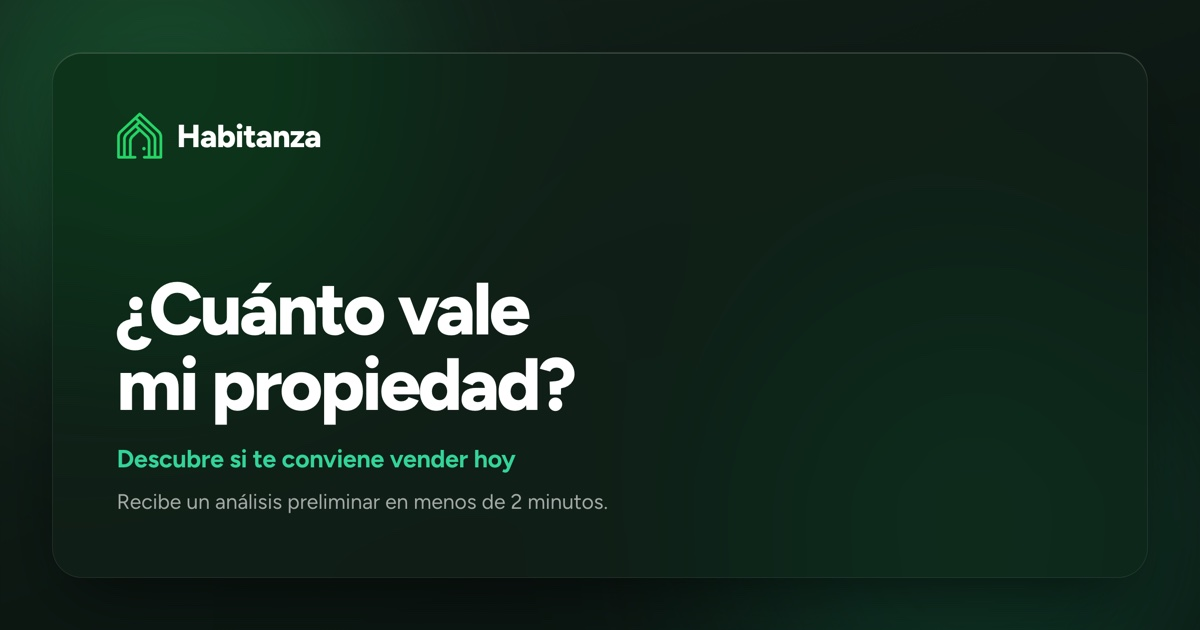
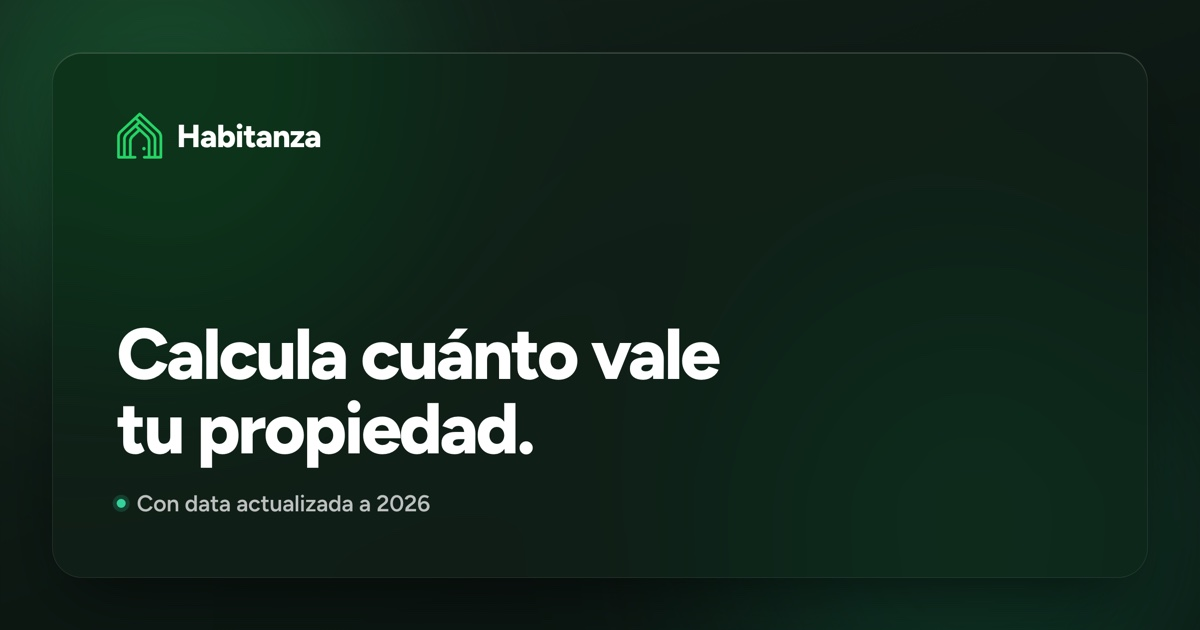
Align preview copy: statement image + tool-framed titles
Rework the share-image copy into a statement ("Calcula cuánto vale tu
propiedad." with "Con data actualizada a 2026") and reframe the page /
social titles around the tool ("Descubre cuánto vale tu propiedad en
menos de 2 minutos | Habitanza"), replacing the stale "¿Cuánto vale tu
casa en Zona Esmeralda?" title. Update og:image:alt to match the new
image.

Changed region(s): [[0.0925, 0.4524, 0.6167, 0.754], [0.0925, 0.7841, 0.5242, 0.8143]]

diff --git a/index.html b/index.html
@@ -3,7 +3,7 @@
   <head>
     <meta charset="UTF-8" />
     <meta name="viewport" content="width=device-width, initial-scale=1.0" />
-    <title>¿Cuánto vale tu casa en Zona Esmeralda? | Habitanza</title>
+    <title>Descubre cuánto vale tu propiedad en menos de 2 minutos | Habitanza</title>
     <meta
       name="description"
       content="Recibe una estimación preliminar y un Análisis Comparativo de Mercado hecho a la medida por un asesor especialista en Zona Esmeralda, Atizapán de Zaragoza. Sin costo, sin compromiso."
@@ -21,7 +21,7 @@
     <meta property="og:site_name" content="Habitanza" />
     <meta property="og:locale" content="es_MX" />
     <meta property="og:url" content="https://habitanza-acm-public.vercel.app/" />
-    <meta property="og:title" content="¿Cuánto vale tu casa en Zona Esmeralda? | Habitanza" />
+    <meta property="og:title" content="Descubre cuánto vale tu propiedad en menos de 2 minutos | Habitanza" />
     <meta
       property="og:description"
       content="Estimación preliminar en minutos y un Análisis Comparativo de Mercado hecho a la medida por un asesor especialista en tu fraccionamiento."
@@ -30,11 +30,11 @@
     <meta property="og:image:type" content="image/jpeg" />
     <meta property="og:image:width" content="1200" />
     <meta property="og:image:height" content="630" />
-    <meta property="og:image:alt" content="Habitanza: ¿Cuánto vale mi propiedad? Rango de valor preliminar en Zona Esmeralda." />
+    <meta property="og:image:alt" content="Habitanza: Calcula cuánto vale tu propiedad, con data actualizada a 2026." />
 
     <!-- Twitter -->
     <meta name="twitter:card" content="summary_large_image" />
-    <meta name="twitter:title" content="¿Cuánto vale tu casa en Zona Esmeralda? | Habitanza" />
+    <meta name="twitter:title" content="Descubre cuánto vale tu propiedad en menos de 2 minutos | Habitanza" />
     <meta
       name="twitter:description"
       content="Estimación preliminar en minutos y un Análisis Comparativo de Mercado hecho a la medida por un asesor especialista en tu fraccionamiento."